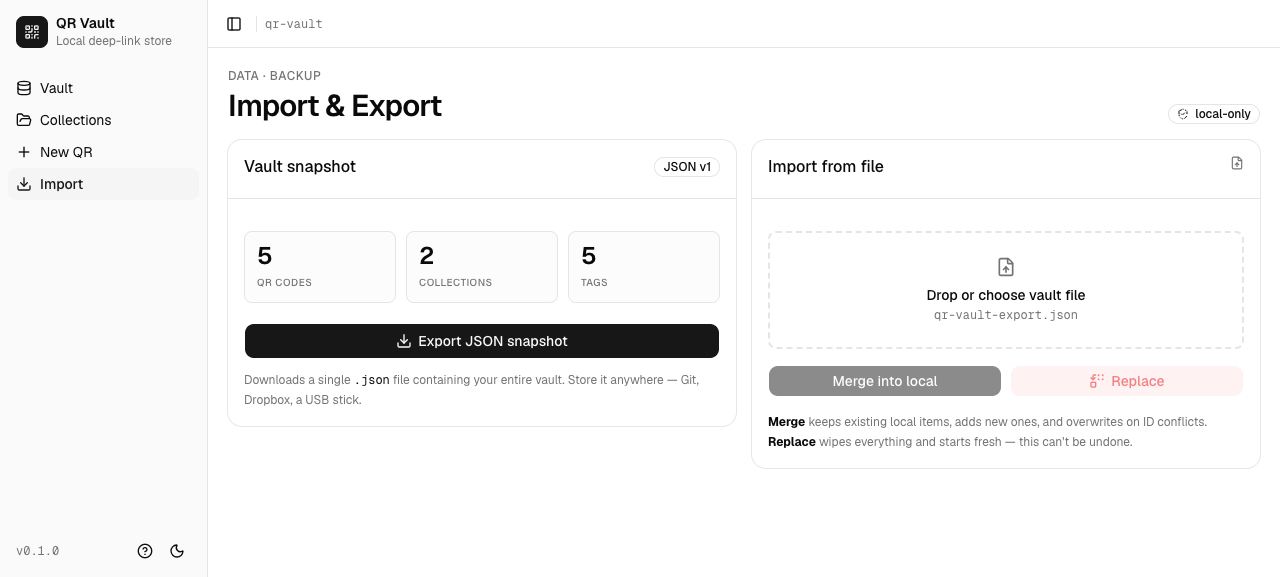
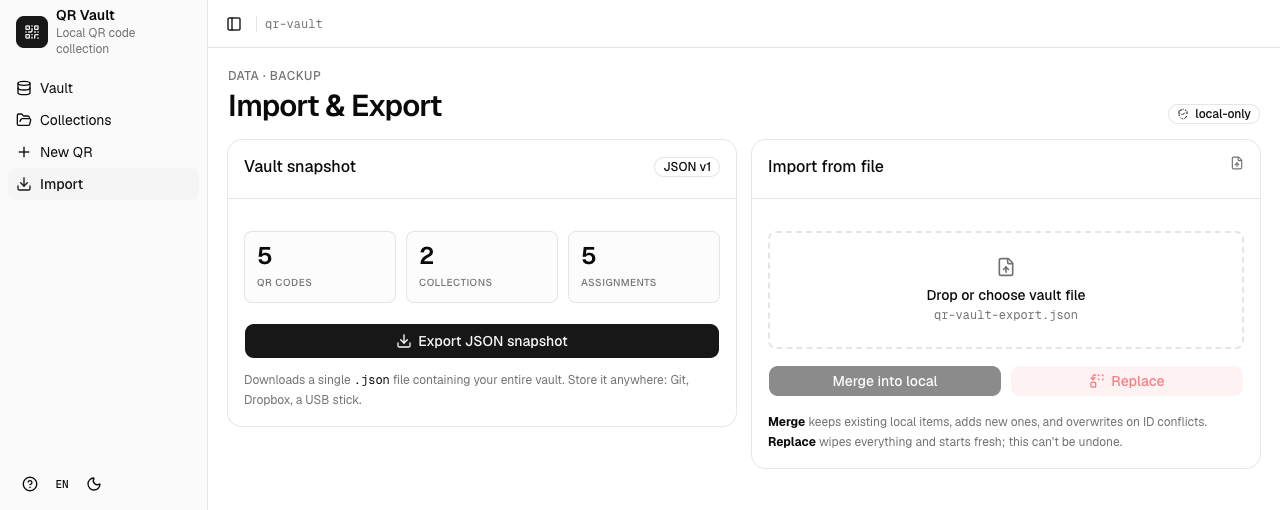
docs(qr-vault): sync README and screenshots with current UI
- fix local-dev commands to `pnpm --filter qr-vault` (root `:qr-vault` scripts no longer exist; there is no root dev/build)
- drop two stale Known limitations (collections can be deleted; QR has Download PNG)
- document i18n (i18next + react-i18next), the `qr-vault:locale` key, and corrected responsive breakpoints (lg, sidebar 768px)
- add `&description` to the share-link example; name the demo collections
- re-shoot all five screenshots against the current UI

diff --git a/apps/qr-vault/README.md b/apps/qr-vault/README.md
@@ -22,7 +22,7 @@
 
 ![Vault 列表 + Inspector](docs/screenshots/01-vault.png)
 
-- **双栏布局**：左侧列表，右侧 Inspector 显示选中条目的二维码、原始 URL 与分享按钮。
+- **双栏布局**：左侧列表，右侧 Inspector 显示选中条目的二维码、原始 URL、下载 PNG 与分享按钮。
 - **Chip 行筛选**：顶部 `All QR` / `Uncategorized`（仅在有未归类条目时出现）/ 各 collection，附数量徽标。
 - **多维搜索**：搜索框同时匹配 title、description、URL、scheme、path 以及任意 query 的 key / value。
 - **删除有后悔药**：trash 按钮第一次点是"armed"，3 秒内再点一次才真删除；删除后 toast 内还有 `Undo` 一键恢复，并保留原 collection 归属。
@@ -40,7 +40,7 @@
 
 ![Collections 三栏视图](docs/screenshots/04-collections.png)
 
-- 三栏布局：左 = 所有 folder、中 = 新建 / 编辑表单、右 = 当前 collection 下的 QR 列表。
+- 三栏布局：左 = 所有 folder、中 = 新建 / 编辑 / 删除表单、右 = 当前 collection 下的 QR 列表。
 - 多对多归属，QR 详情页用 multi-select picker 一次性管理。
 - 路由 `/#/collections/<id>` 直接进入某个 collection 的子视图。
 
@@ -48,7 +48,7 @@
 
 ![分享落地页](docs/screenshots/05-share.png)
 
-- 分享链接形如 `https://…/#/share?url=…&title=…`，**所有参数走 URL hash**——浏览器不会把 hash 发到服务器，数据不会上云。
+- 分享链接形如 `https://…/#/share?url=…&title=…&description=…`，**所有参数走 URL hash**——浏览器不会把 hash 发到服务器，数据不会上云。
 - 接收方落地页：QR 大图 + 解析详情（scheme / path / query params 一目了然）+ `Save to local`（一键写入对方自己的 vault）+ `Copy URL` / `Copy share URL`。
 - 页面底部明确标注 _Stays on this device. Nothing is uploaded._
 
@@ -64,29 +64,30 @@
 
 ### 上手即用
 
-- **首次进入自动注入 demo 数据**：2 个 collection + 5 个常用站点（YouTube / MDN / GitHub / Vercel / Linear），不用对着空页面发呆。
+- **首次进入自动注入 demo 数据**：2 个 collection（Search & Reference / Dev Tools）+ 5 个常用站点（YouTube / MDN / GitHub / Vercel / Linear），不用对着空页面发呆。
 - **Driver.js 四步引导**：New QR → URL 输入 → 实时预览 → Save。可在侧栏底部 `?` 按钮随时 replay。
 
 ### 其他贴心细节
 
 - **Light / Dark 主题**：支持系统跟随，HTML 内联脚本在 React 挂载前就应用主题，避免首屏闪白。
+- **中英双语**：内置 i18next，右下角一键切换 English / 简体中文，语言偏好记入 `localStorage`。
 - **Toast 反馈**：使用 sonner，复制成功 / 删除 / 撤销都有顶部居中提示。
-- **响应式**：xl 断点切两栏，移动端单列；侧栏自动收缩为 Sheet。
+- **响应式**：主内容在 `lg` / `xl` 断点切多栏、移动端单列；侧栏在 768px 以下自动收成 Sheet。
 
 ## 🔒 Privacy & data
 
-- 全部数据只写浏览器 `localStorage`，三个 key：
+- 全部数据只写浏览器 `localStorage`，四个 key：
   - `qr-vault:data` —— vault 全量数据
   - `qr-vault:theme` —— 主题偏好
+  - `qr-vault:locale` —— 语言偏好（en / zh-CN）
   - `qr-vault:onboarding-v1` —— 引导是否看过
+- 另有少量临时 UI 状态走 `sessionStorage`（`qr-vault:last-saved-id`、`qr-vault:focus-title`），不含 vault 数据。
 - **零网络出站**：源码里没有 `fetch` / `axios`，字体（Geist + Geist Mono）也打进 bundle，不连任何第三方 CDN。
 - **备份建议**：清浏览器数据前，先去 `Import` 页面导出 JSON。换设备时把 JSON 拷过去再 `Merge` 或 `Replace`。
 - **关于分享链接的安全提醒**：虽然数据不上传服务器，但 URL 本身明文写在 hash 里，截图 OCR 或 IM 历史都看得到。含 token / 个人信息的 deep link，别随手丢到公共群。
 
 ## ⚠ Known limitations
 
-- Collection 目前**只能新建 / 编辑，不能删除**——临时需要的话只能导出 JSON、手动删掉对应记录、再 `Replace` 导回。
-- 二维码图片没有"下载/复制图片"按钮，需要的话用浏览器**右键 → 另存为**。
 - 删除条目的 `Undo` 仅在 toast 显示窗口内有效，错过就找不回。
 - `Save as New` 会沿用当前 collection 归属，需要的话自行调整。
 
@@ -95,6 +96,7 @@
 - **UI**：React 19 + TypeScript 5
 - **构建**：Vite 8（`base: './'`，产物可以放到任意子路径）
 - **路由**：TanStack Router + `createHashHistory`——纯静态托管即可，无需后端 rewrite
+- **i18n**：i18next + react-i18next，英文 / 简体中文全量双语
 - **样式**：Tailwind CSS v4 + shadcn / Radix UI primitives + `tw-animate-css`
 - **图标 & toast**：lucide-react + sonner
 - **二维码**：`qrcode` 浏览器端 `toDataURL`
@@ -109,16 +111,16 @@
 ```bash
 corepack enable
 pnpm install
-pnpm dev:qr-vault          # Vite dev server，默认 http://localhost:5173
+pnpm --filter qr-vault dev       # Vite dev server，默认 http://localhost:5173
 ```
 
-常用命令（都需要在仓库根目录跑）：
+常用命令（在仓库根目录用 `--filter` 跑；或 `cd apps/qr-vault` 后省略 `--filter qr-vault`）：
 
 ```bash
-pnpm test:qr-vault         # 单测一次性
-pnpm build:qr-vault        # tsc -b && vite build
-pnpm preview:qr-vault      # 预览 dist 产物
-pnpm lint:qr-vault         # oxlint
+pnpm --filter qr-vault test      # 单测一次性
+pnpm --filter qr-vault build     # tsc -b && vite build
+pnpm --filter qr-vault preview   # 预览 dist 产物
+pnpm --filter qr-vault lint      # oxlint
 ```
 
-> 仓库根 `pnpm dev` / `pnpm build` 默认指向同 monorepo 的 `qr-codes` 应用，本应用必须用带 `:qr-vault` 后缀的脚本。
+> 仓库根 `package.json` 没有 `dev` / `build` 脚本；统一用 `pnpm --filter qr-vault <script>` 定位到本应用。
